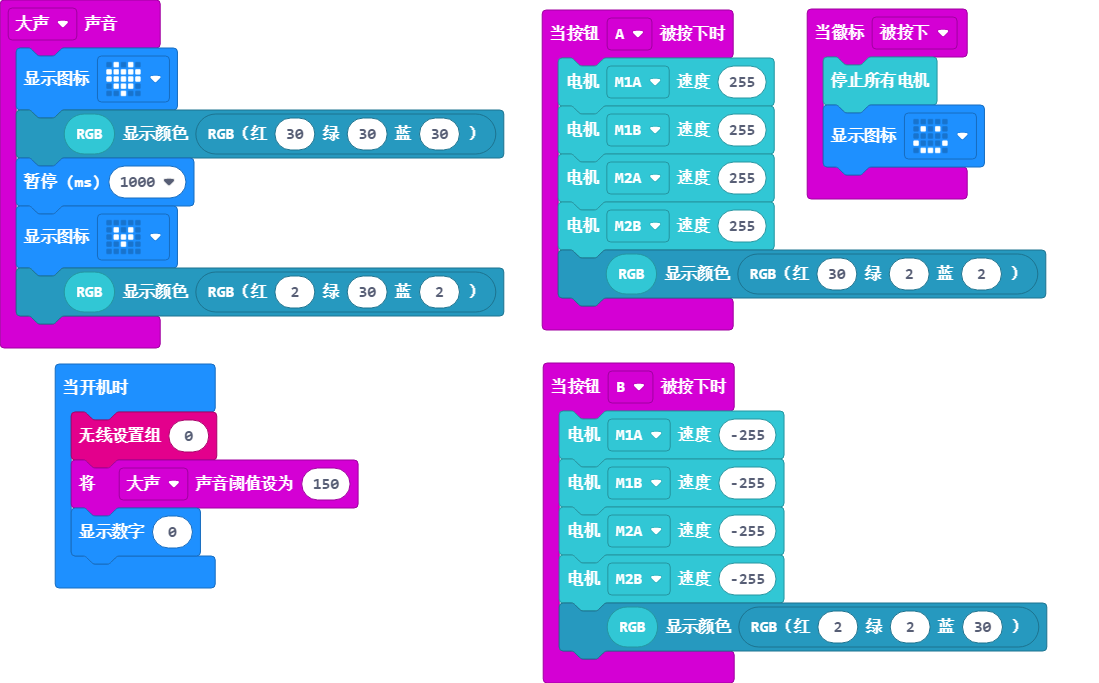
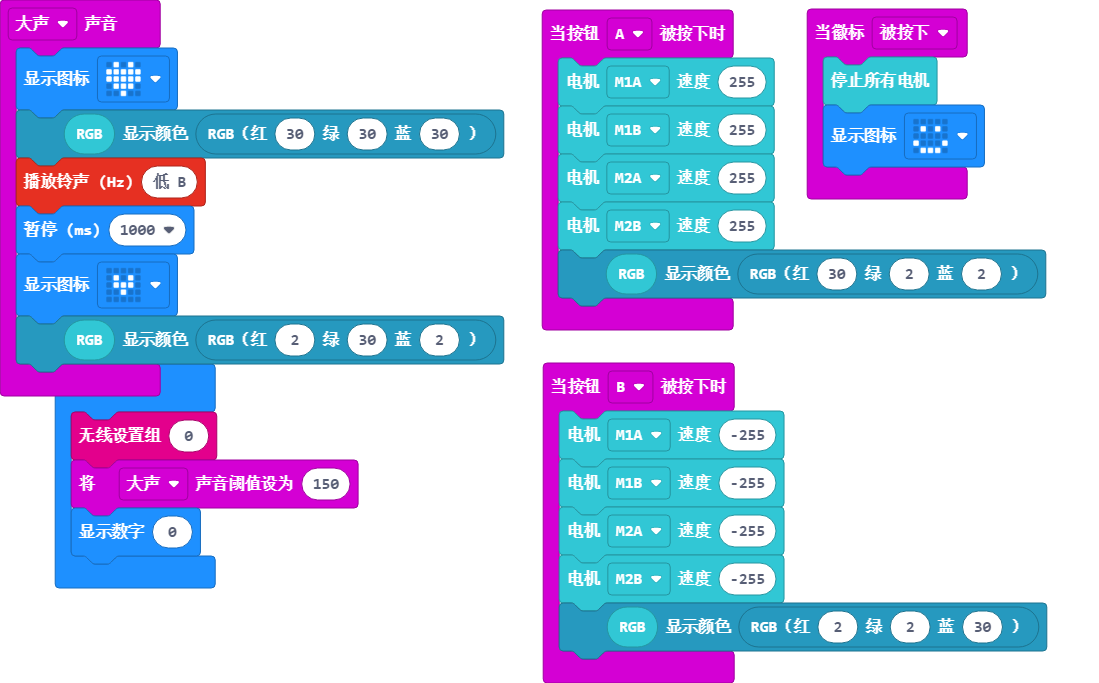
更新 main.blocks, main.ts

Changed region(s): [[0.0, 0.2152, 0.4641, 0.5842]]

diff --git a/main.ts b/main.ts
@@ -19,6 +19,7 @@ input.onButtonPressed(Button.B, function () {
 input.onSound(DetectedSound.Loud, function () {
     basic.showIcon(IconNames.Heart)
     robotbit.rgb().showColor(neopixel.rgb(30, 30, 30))
+    music.ringTone(247)
     basic.pause(1000)
     basic.showIcon(IconNames.SmallHeart)
     robotbit.rgb().showColor(neopixel.rgb(2, 30, 2))
